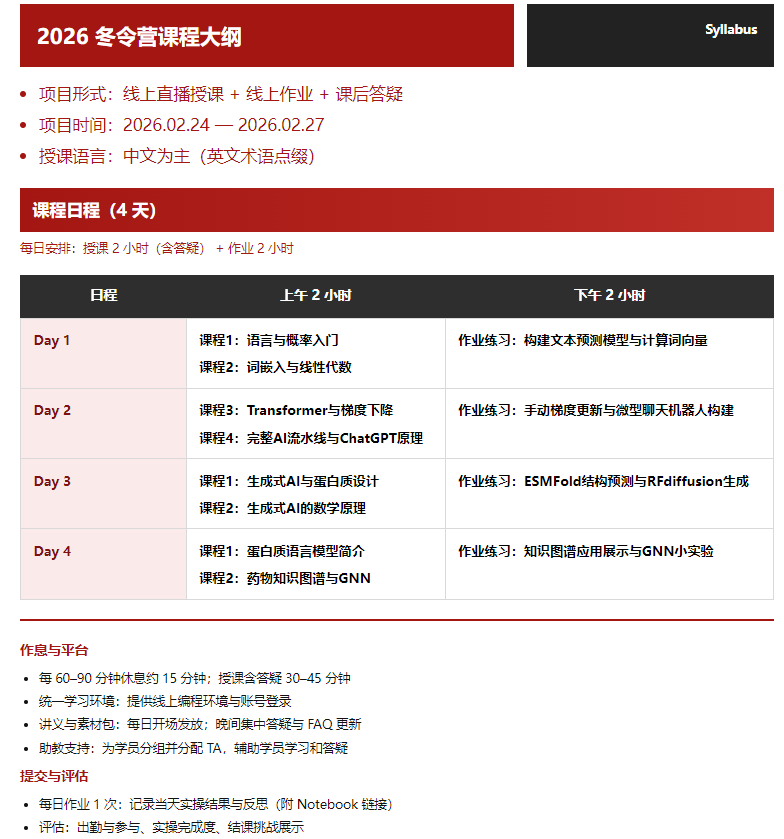
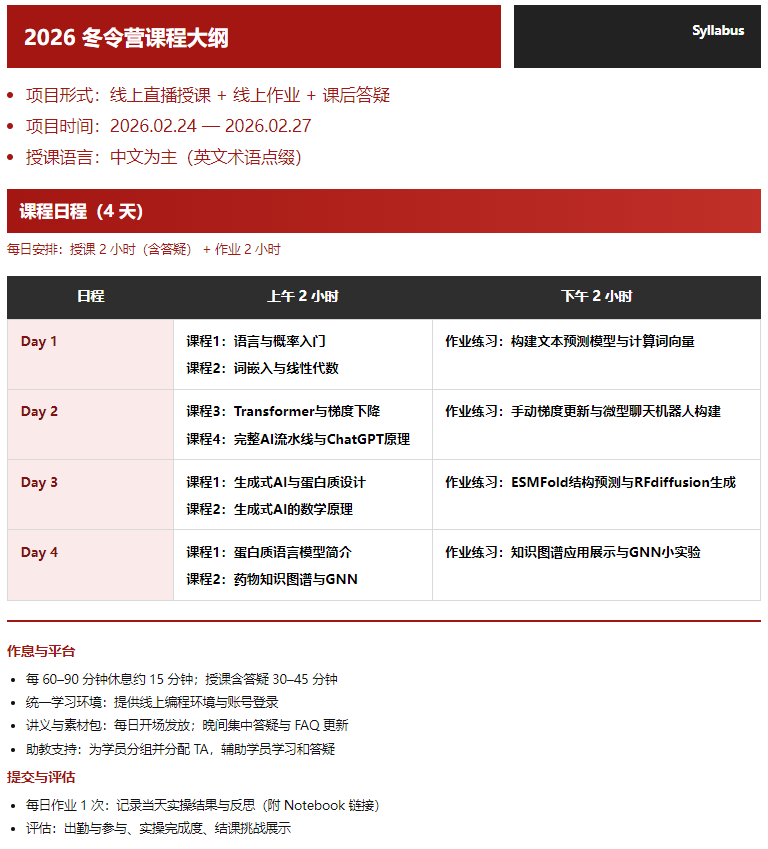
added the En version of the picture

diff --git a/app/winter-camp/page.tsx b/app/winter-camp/page.tsx
@@ -6,7 +6,7 @@ import { useI18n } from "@/components/i18n-provider"
 import Image from "next/image"
 
 export default function WinterCampPage() {
-  const { t } = useI18n()
+  const { t, locale } = useI18n()
 
   return (
     <main className="min-h-screen">
@@ -19,7 +19,7 @@ export default function WinterCampPage() {
 
           <div className="flex justify-center mb-12">
             <img
-              src="/assets/winter-images/webwxgetmsgimg.jpg"
+              src={locale === 'en' ? "/assets/winter-images/webwxgetmsgimg-en.jpg" : "/assets/winter-images/webwxgetmsgimg.jpg"}
               alt="Winter Camp"
               className="max-w-full h-auto rounded-xl shadow-2xl"
             />
